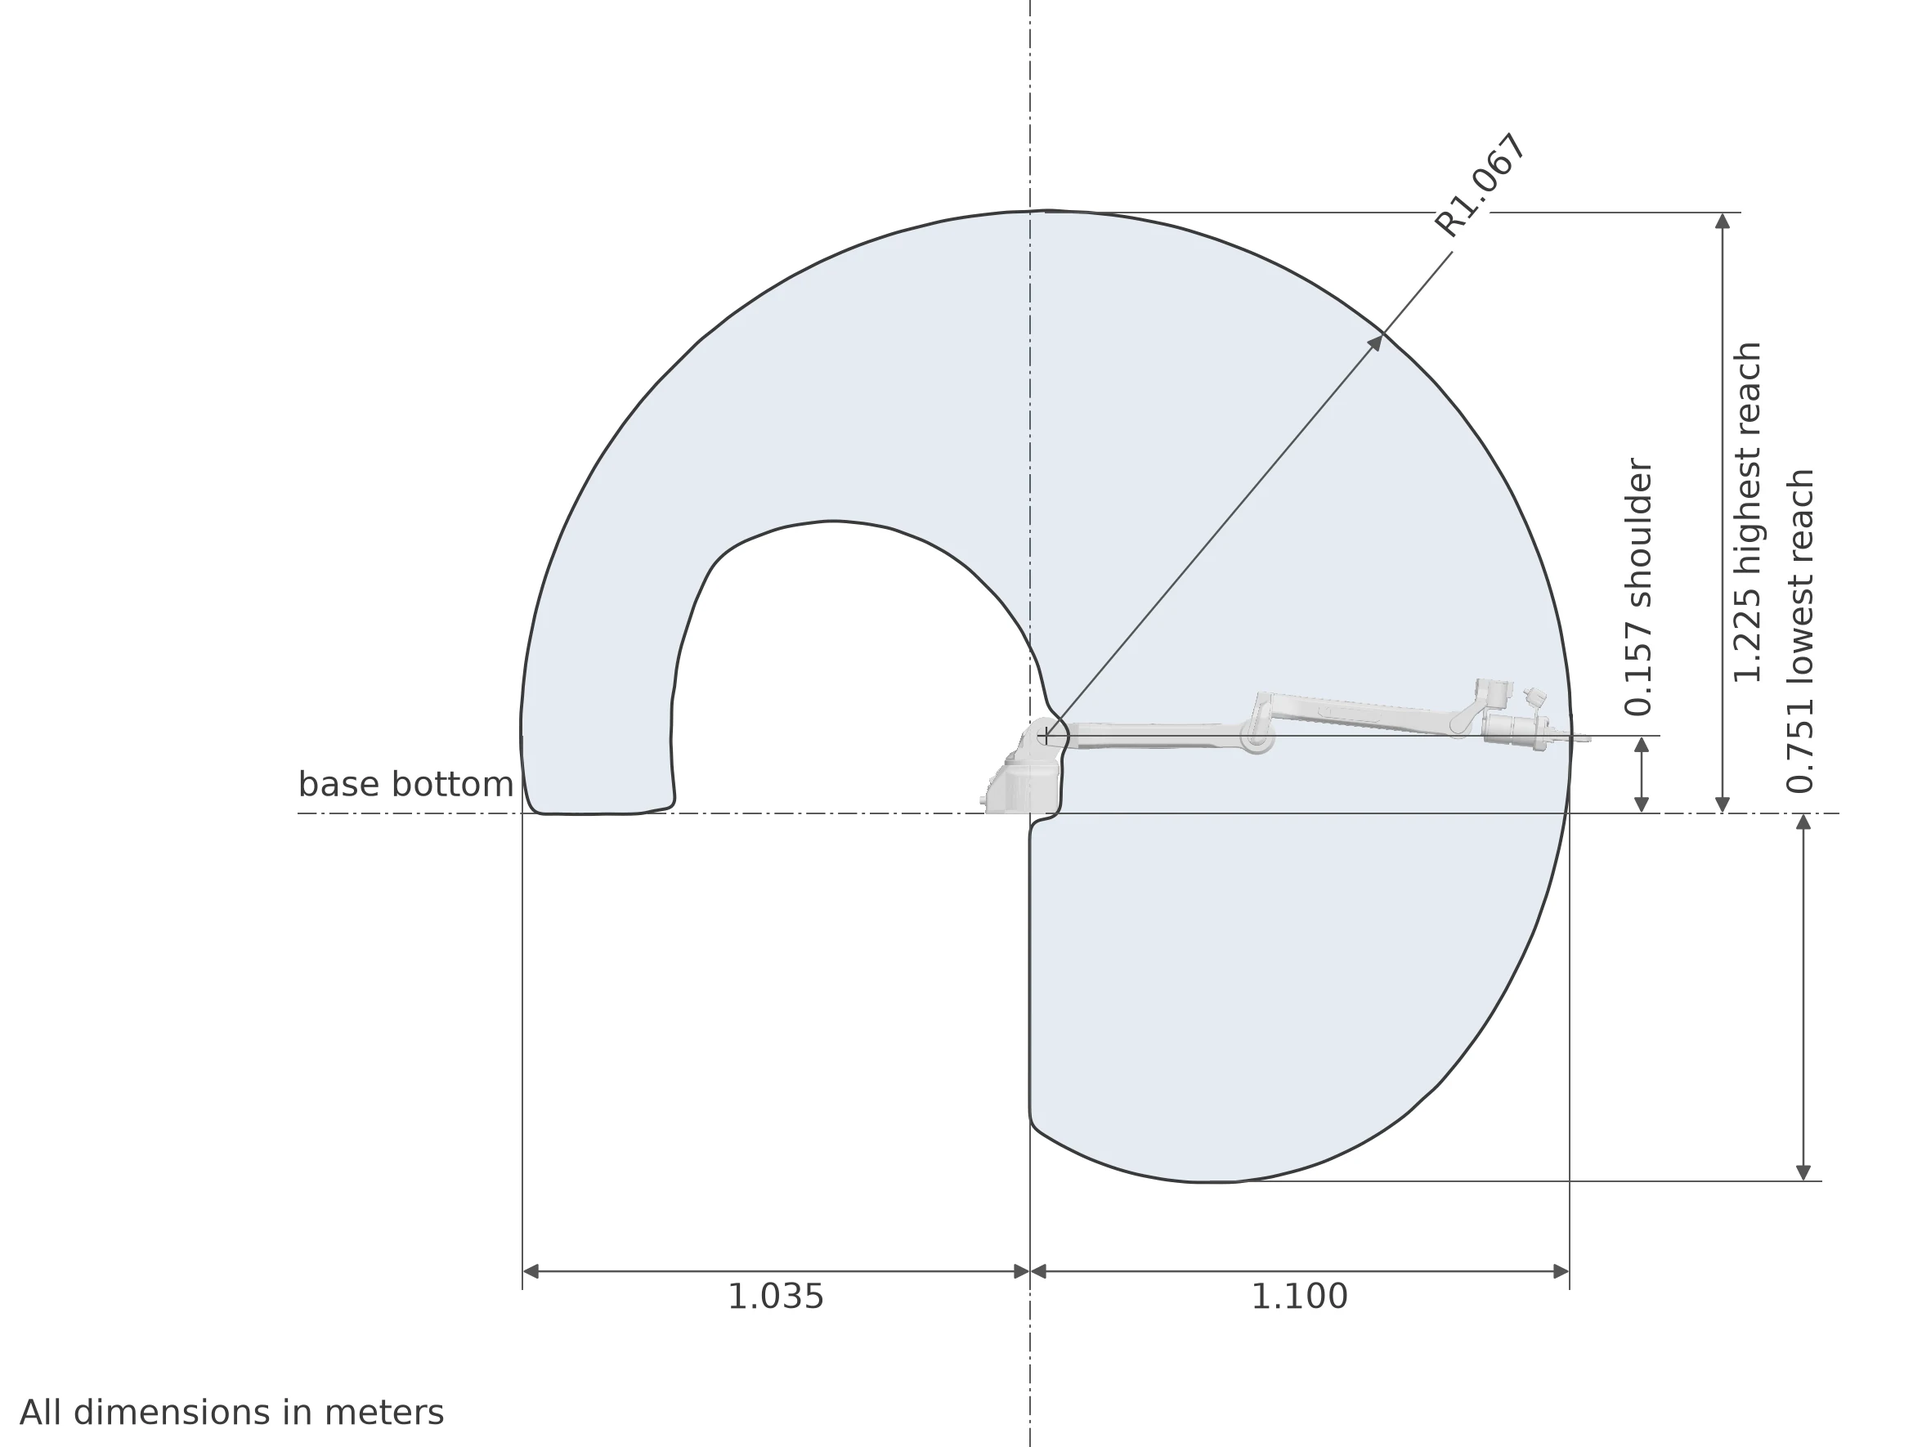
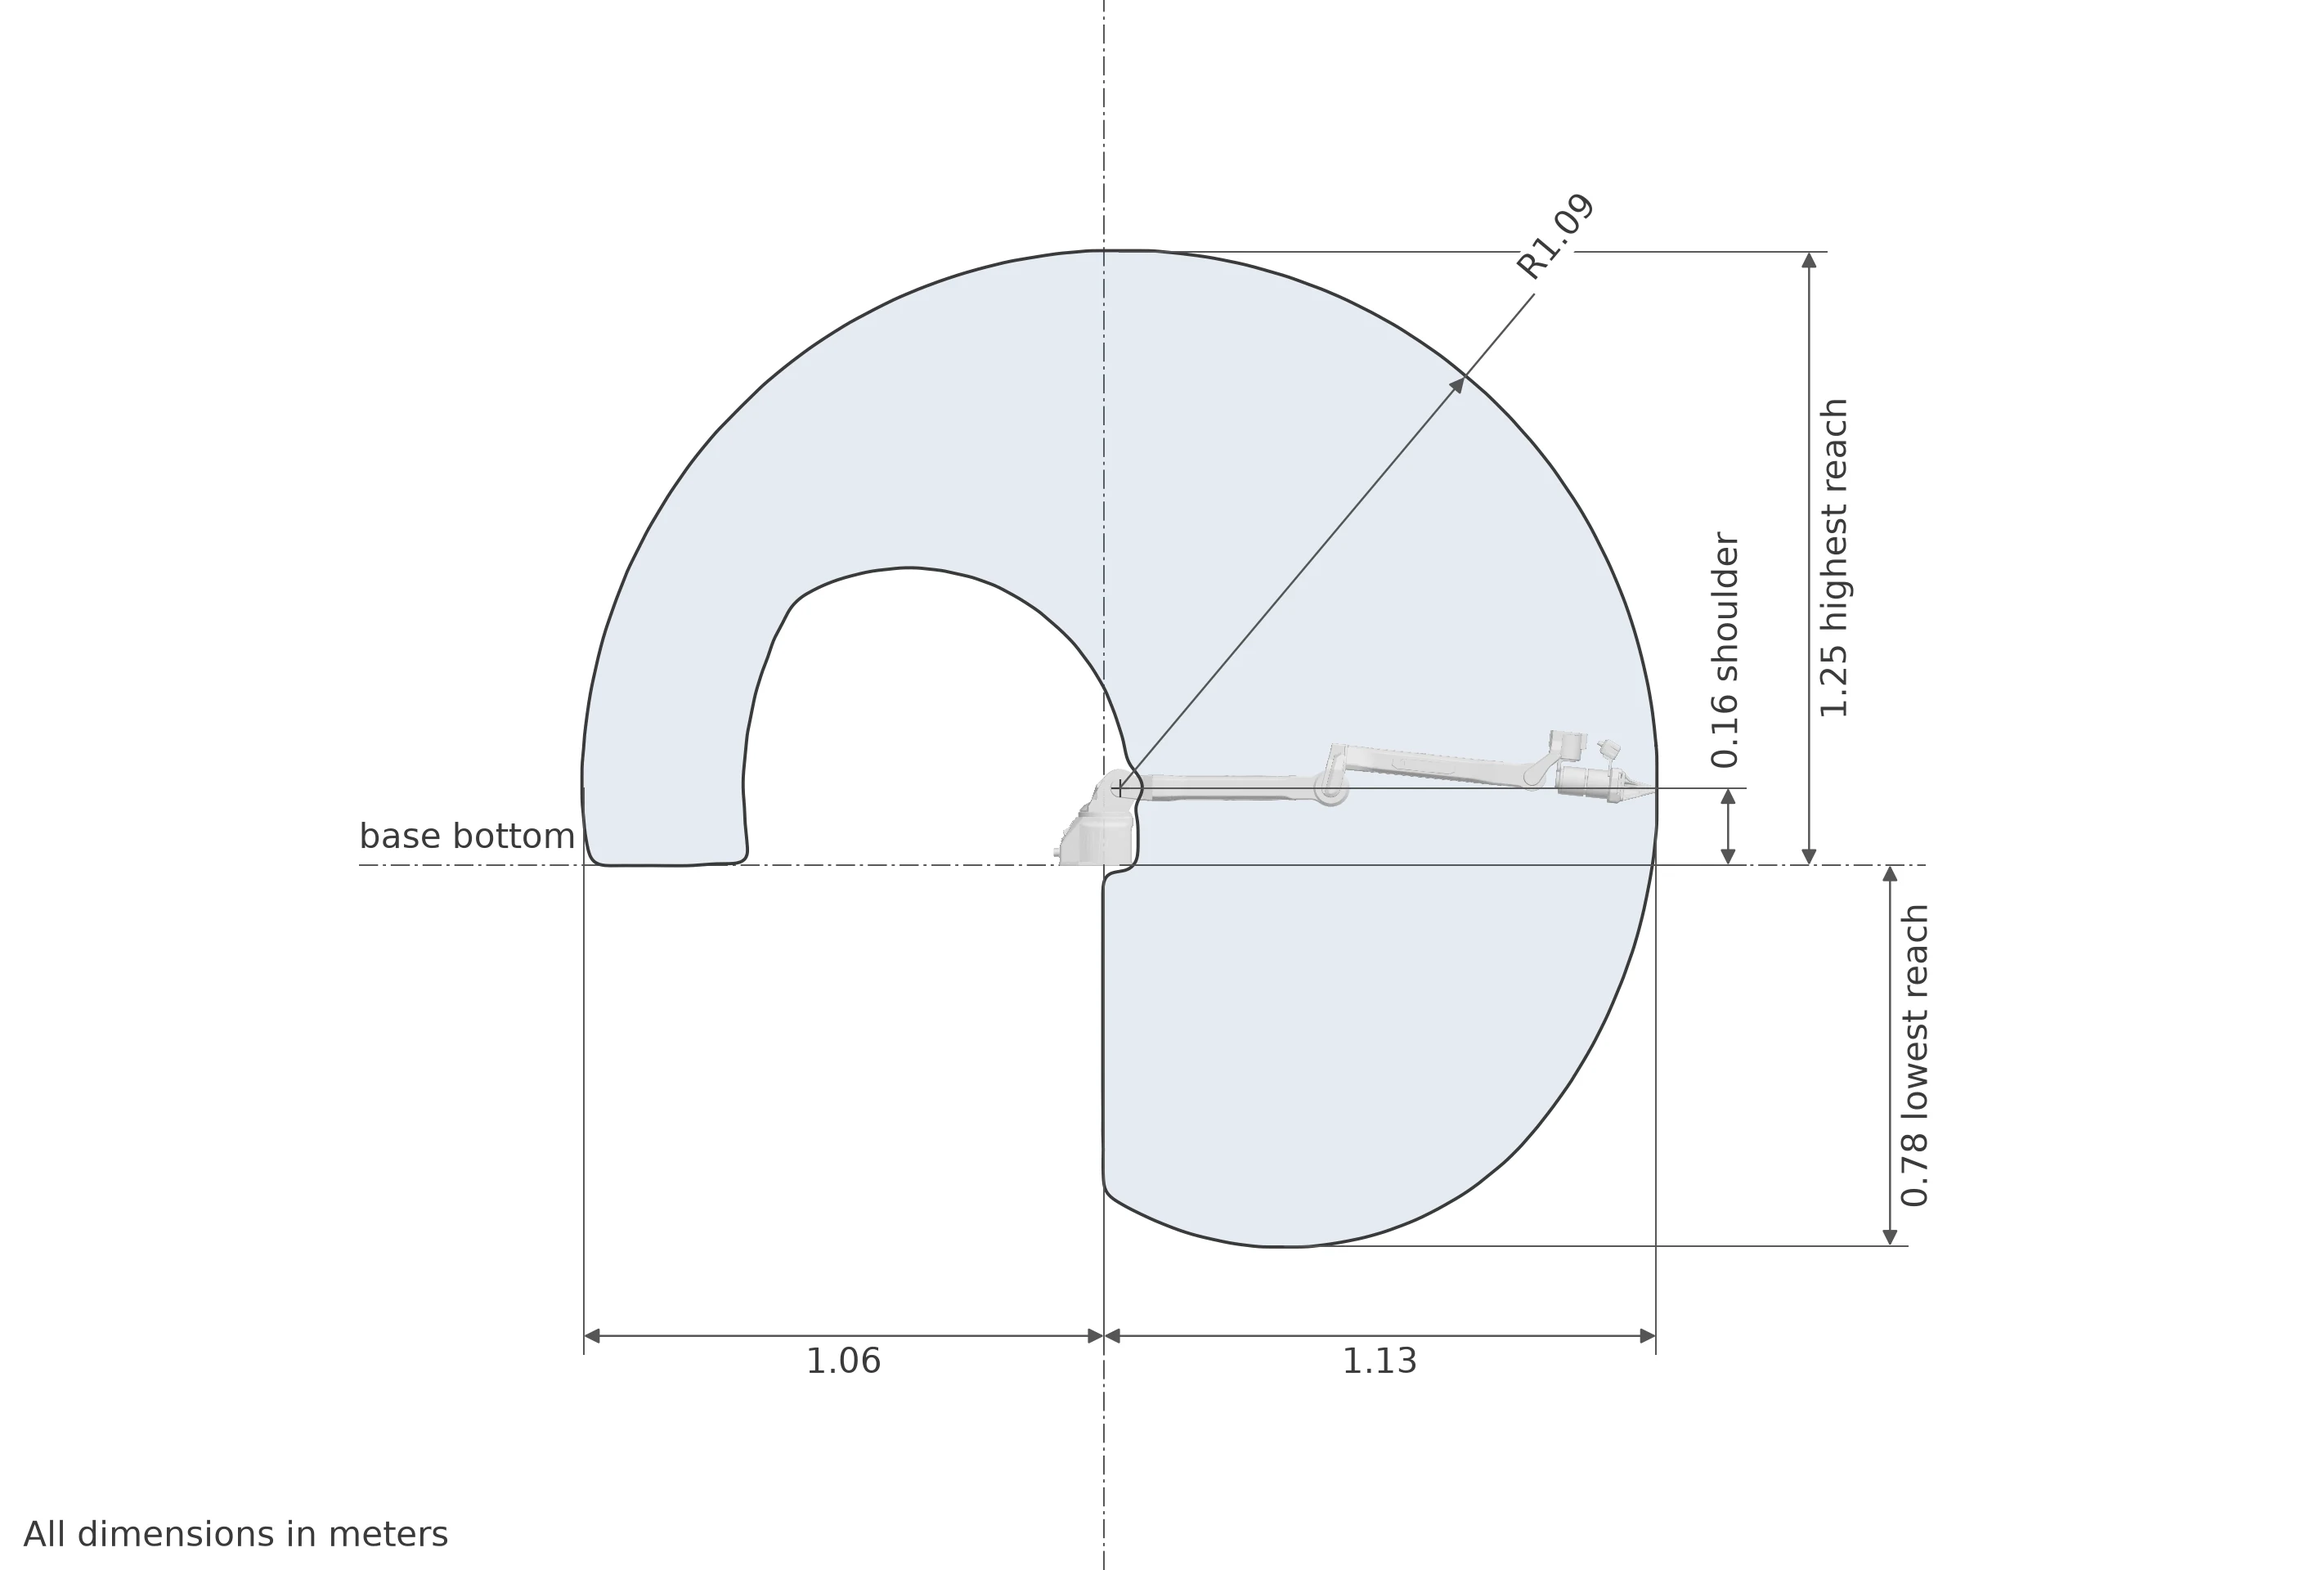
Measure reach to the fingertips with two decimals

diff --git a/docs/specifications/arms.rst b/docs/specifications/arms.rst
@@ -46,7 +46,7 @@ The WidowX Core, Pro, and Heavy use the same joint layout, end effector, and con
     +--------------------+-------------+-------------+-------------+
     | Weight             | 5.5 kg      | 6 kg        | 8 kg        |
     +--------------------+-------------+-------------+-------------+
-    | Reach              | 0.700 m                   | 1.100 m     |
+    | Reach              | 0.79 m      | 0.80 m      | 1.13 m      |
     +--------------------+-------------+-------------+-------------+
     | Gripper Stroke     | 90 mm                                   |
     +--------------------+-------------+-------------+-------------+
@@ -57,7 +57,7 @@ The WidowX Core, Pro, and Heavy use the same joint layout, end effector, and con
     | Communication      | Ethernet                                |
     +--------------------+-------------+-------------+-------------+
 
-Reach is measured horizontally from the base rotation axis (the joint 0 axis) to a point along the gripper.
+Reach is measured horizontally from the base rotation axis (the joint 0 axis) to the gripper fingertips.
 
 Glide
 =====

diff --git a/docs/specifications/wxheavy.rst b/docs/specifications/wxheavy.rst
@@ -31,7 +31,7 @@ See :doc:`arms` to compare the WidowX arms.
             +--------------------+-------------+
             | Weight             | 8 kg        |
             +--------------------+-------------+
-            | Reach              | 1.100 m     |
+            | Reach              | 1.13 m      |
             +--------------------+-------------+
             | Gripper Stroke     | 90 mm       |
             +--------------------+-------------+
@@ -101,8 +101,8 @@ Joint Limits
 Workspace
 =========
 
-The shaded area is where a point along the gripper can reach.
-Reach is measured horizontally from the base rotation axis (the joint 0 axis) to that point.
+The shaded area is where the gripper fingertips can reach.
+Reach is measured horizontally from the base rotation axis (the joint 0 axis) to the fingertips.
 All dimensions are in meters.
 
 .. figure:: images/wxheavy_workspace_side.webp

diff --git a/docs/specifications/wxcore.rst b/docs/specifications/wxcore.rst
@@ -31,7 +31,7 @@ See :doc:`arms` to compare the WidowX arms.
             +--------------------+-------------+
             | Weight             | 5.5 kg      |
             +--------------------+-------------+
-            | Reach              | 0.700 m     |
+            | Reach              | 0.79 m      |
             +--------------------+-------------+
             | Gripper Stroke     | 90 mm       |
             +--------------------+-------------+
@@ -101,8 +101,8 @@ Joint Limits
 Workspace
 =========
 
-The shaded area is where a point along the gripper can reach.
-Reach is measured horizontally from the base rotation axis (the joint 0 axis) to that point.
+The shaded area is where the gripper fingertips can reach.
+Reach is measured horizontally from the base rotation axis (the joint 0 axis) to the fingertips.
 All dimensions are in meters.
 
 .. figure:: images/wxcore_workspace_side.webp

diff --git a/docs/specifications/wxpro.rst b/docs/specifications/wxpro.rst
@@ -31,7 +31,7 @@ See :doc:`arms` to compare the WidowX arms.
             +--------------------+-------------+
             | Weight             | 6 kg        |
             +--------------------+-------------+
-            | Reach              | 0.700 m     |
+            | Reach              | 0.80 m      |
             +--------------------+-------------+
             | Gripper Stroke     | 90 mm       |
             +--------------------+-------------+
@@ -101,8 +101,8 @@ Joint Limits
 Workspace
 =========
 
-The shaded area is where a point along the gripper can reach.
-Reach is measured horizontally from the base rotation axis (the joint 0 axis) to that point.
+The shaded area is where the gripper fingertips can reach.
+Reach is measured horizontally from the base rotation axis (the joint 0 axis) to the fingertips.
 All dimensions are in meters.
 
 .. figure:: images/wxpro_workspace_side.webp

diff --git a/docs/specifications/rivet.rst b/docs/specifications/rivet.rst
@@ -63,8 +63,8 @@ The Rivet is a mobile system with two :doc:`WidowX Core <wxcore>` or :doc:`Widow
 Workspace
 =========
 
-The shaded areas are where a point along each arm's gripper can reach with the base parked, swept over the full lift travel.
-Reach is measured horizontally from the base rotation axis (the joint 0 axis) to that point.
+The shaded areas are where each arm's gripper fingertips can reach with the base parked, swept over the full lift travel.
+Reach is measured horizontally from the base rotation axis (the joint 0 axis) to the fingertips.
 All dimensions are in meters.
 
 .. tabs::
